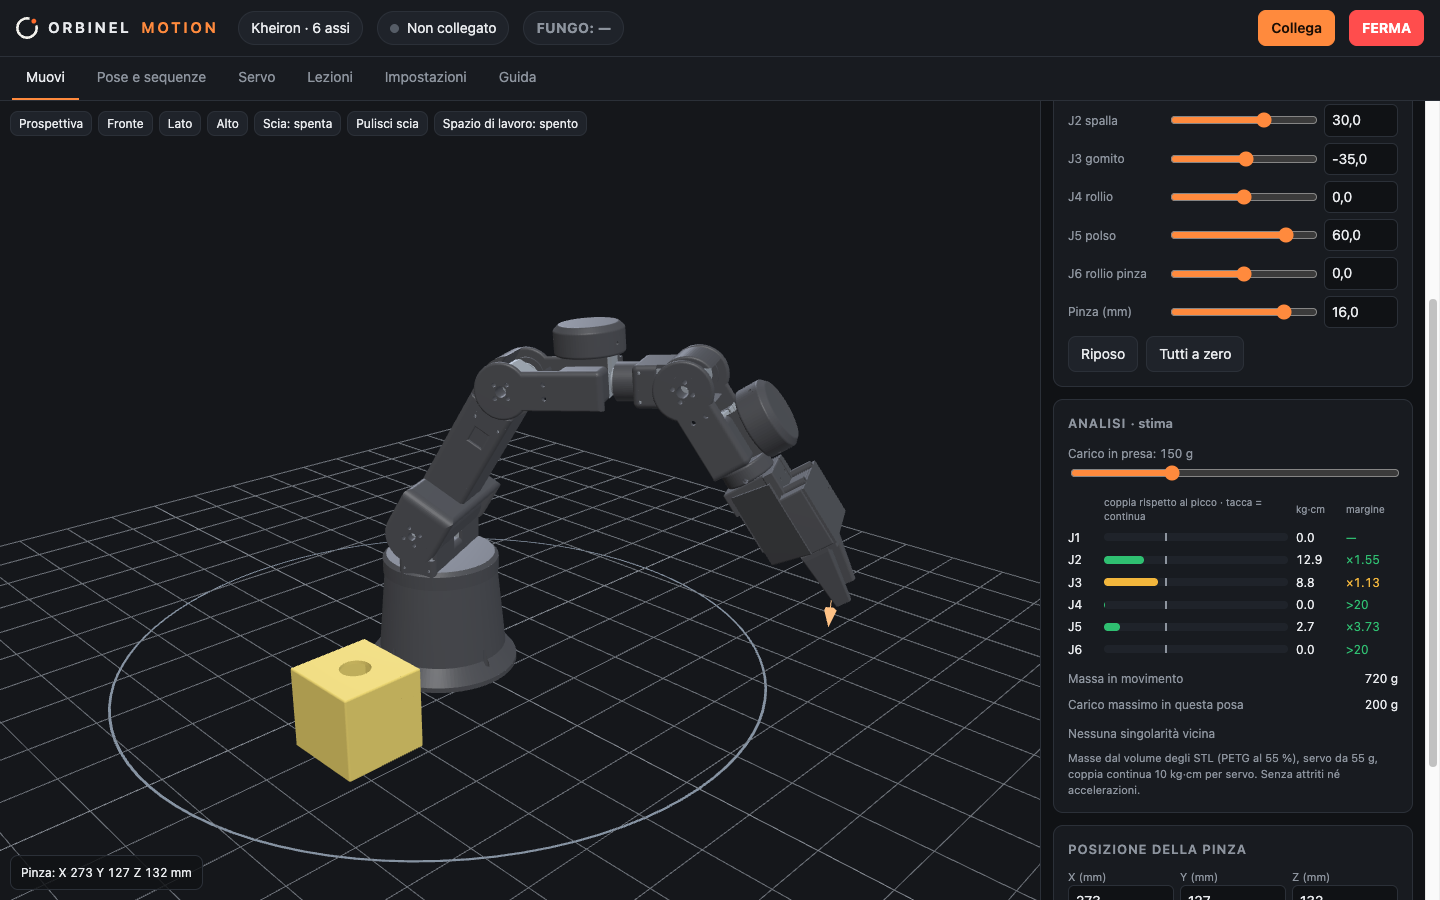
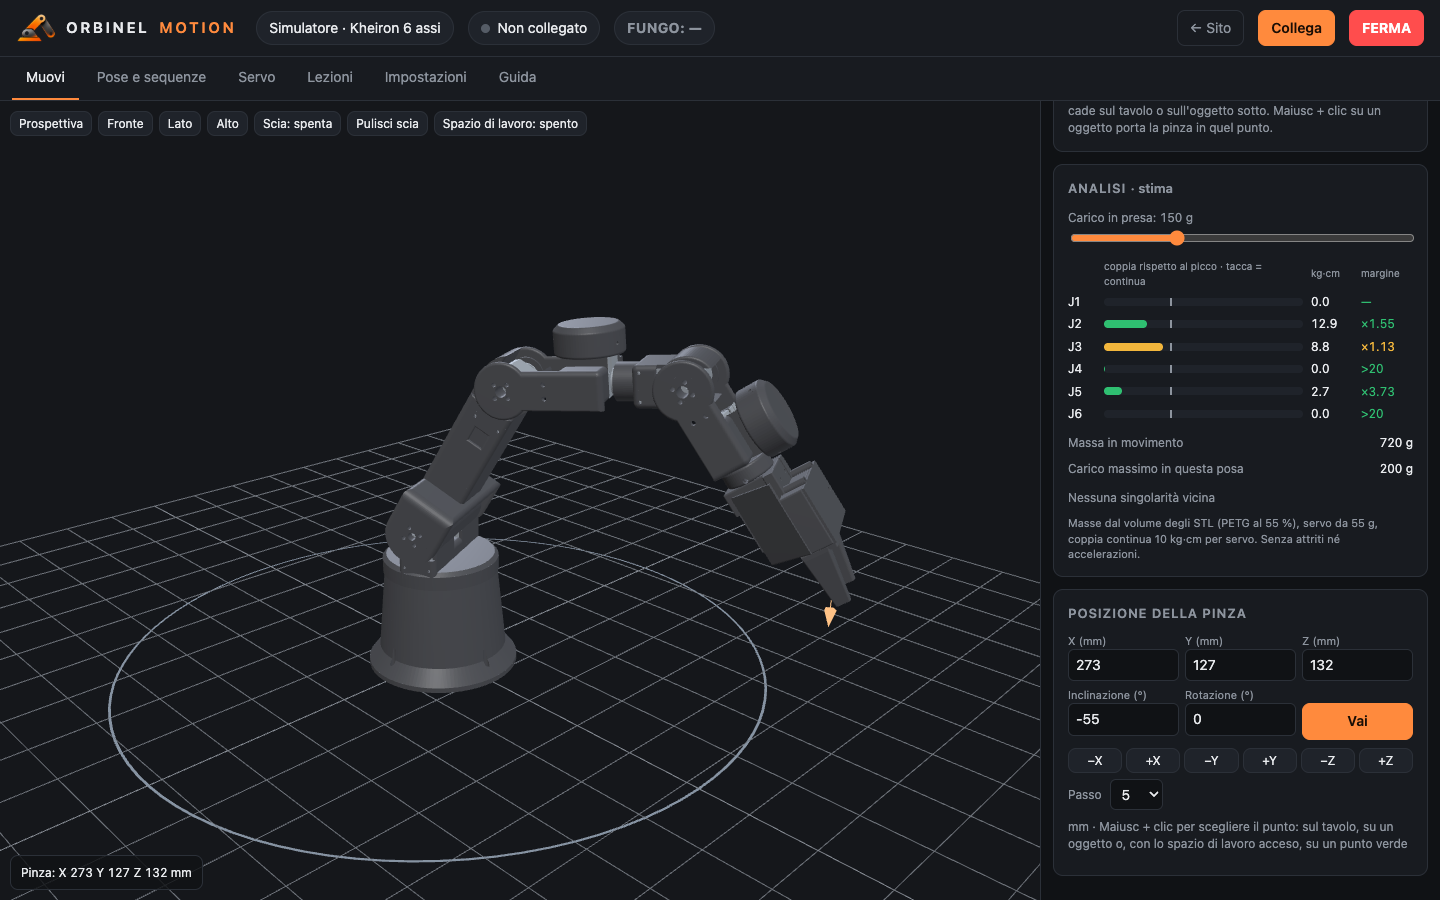
Aggiorna il sito

diff --git a/motion/js/oggetti.js b/motion/js/oggetti.js
@@ -1,0 +1,210 @@
+// Oggetti accanto al robot, da file STL o un cubo di prova, da prendere con la pinza. Quando le dita
+// si chiudono su un oggetto con il punto di presa (TCP) dentro, l'oggetto segue la pinza e il suo peso
+// entra nell'analisi delle coppie; quando si riaprono cade sul tavolo o sull'oggetto che c'è sotto.
+// Le dita si considerano a 2 × «Pinza (mm)» l'una dall'altra: si prende un oggetto largo fino a 40 mm tra le dita. Gli oggetti restano solo in questa pagina.
+'use strict';
+
+const oggetti = {
+  lista: [],
+  preso: null,          // oggetto nella pinza
+  relativa: null,       // posa dell'oggetto rispetto alla pinza al momento della presa
+  caricoPrima: 0,       // carico del cursore prima della presa, rimesso al rilascio
+  aperturaPrima: 0,     // all'avvio la pinza conta come chiusa: per prendere bisogna prima aprirla
+  conta: 0,
+};
+const materialeOggetto = new THREE.MeshStandardMaterial({ color: 0x9fb4c8, roughness: 0.6, metalness: 0.05 });
+const materialePreso = new THREE.MeshStandardMaterial({ color: 0x4cc3ff, roughness: 0.5, metalness: 0.05 });
+
+// STL binario o ASCII
+function leggiStlOggetto(buffer) {
+  const dv = new DataView(buffer);
+  const n = buffer.byteLength >= 84 ? dv.getUint32(80, true) : 0;
+  if (84 + n * 50 === buffer.byteLength) return leggiStl(buffer);
+  const testo = new TextDecoder().decode(buffer);
+  const v = [...testo.matchAll(/vertex\s+(\S+)\s+(\S+)\s+(\S+)/g)].map(m => [+m[1], +m[2], +m[3]]);
+  if (!v.length || v.length % 3) throw new Error('non è un file STL valido');
+  const g = new THREE.BufferGeometry();
+  g.setAttribute('position', new THREE.BufferAttribute(new Float32Array(v.flat()), 3));
+  g.computeVertexNormals();
+  return g;
+}
+
+const ALTO = 2000;     // quota da cui si fa cadere un oggetto spostato: si appoggia su quello che trova
+const posizionaOggetto = o => {
+  o.mesh.matrix.makeRotationZ(o.rz * RAD).setPosition(o.x, o.y, o.z);
+  o.mesh.updateMatrixWorld(true);
+};
+
+function aggiungiOggetto(nome, geo) {
+  if (geo.index) geo = geo.toNonIndexed();        // il volume si calcola su triangoli separati
+  geo.computeBoundingBox();
+  const b = geo.boundingBox;
+  geo.translate(-(b.min.x + b.max.x) / 2, -(b.min.y + b.max.y) / 2, -b.min.z);   // centrato, appoggiato sul piano
+  geo.computeBoundingBox();
+  const dim = new THREE.Vector3(); geo.boundingBox.getSize(dim);
+  // massa stimata: PLA (1,24 g/cm³) al 30 % del pieno; si può correggere nell'elenco
+  const massa = Math.max(1, Math.round(proprieta(geo).volume / 1000 * 1.24 * 0.3));
+  const mesh = new THREE.Mesh(geo, materialeOggetto);
+  mesh.matrixAutoUpdate = false;
+  const k = oggetti.conta++;
+  const o = { id: k, nome, mesh, dim, massa, x: 230, y: -90 + (k % 4) * 60, z: ALTO, rz: 0 };
+  posizionaOggetto(o);
+  scena.scena.add(mesh);
+  scena.cliccabili.push(mesh);
+  oggetti.lista.push(o);
+  appoggia(o);
+  mostraOggetti();
+  if (Math.max(dim.x, dim.y, dim.z) > 400) avviso(`«${nome}» è più grande di 40 cm: il file è in millimetri?`);
+}
+
+function togliOggetto(o) {
+  if (oggetti.preso === o) rilascia(false);
+  scena.scena.remove(o.mesh);
+  scena.cliccabili = scena.cliccabili.filter(m => m !== o.mesh);
+  o.mesh.geometry.dispose();
+  oggetti.lista = oggetti.lista.filter(x => x !== o);
+  mostraOggetti();
+}
+
+// --- presa ---
+function matricePinza(fk) {
+  const R = fk.R, p = fk.tcp;
+  return new THREE.Matrix4().set(R[0][0], R[0][1], R[0][2], p[0], R[1][0], R[1][1], R[1][2], p[1], R[2][0], R[2][1], R[2][2], p[2], 0, 0, 0, 1);
+}
+
+// larghezza dell'oggetto lungo la direzione in cui si chiudono le dita (asse y della pinza):
+// proiezione di tutti i vertici, esatta per gli oggetti convessi in qualsiasi orientamento
+function larghezza(o, asse) {
+  const x = new THREE.Vector3(), y = new THREE.Vector3(), z = new THREE.Vector3();
+  o.mesh.matrix.extractBasis(x, y, z);
+  const a = new THREE.Vector3(...asse), ax = x.dot(a), ay = y.dot(a), az = z.dot(a);
+  const v = o.mesh.geometry.attributes.position.array;
+  let min = Infinity, max = -Infinity;
+  for (let i = 0; i < v.length; i += 3) {
+    const d = v[i] * ax + v[i + 1] * ay + v[i + 2] * az;
+    if (d < min) min = d;
+    if (d > max) max = d;
+  }
+  return max - min;
+}
+
+function contieneTcp(o, tcp) {
+  const p = new THREE.Vector3(...tcp).applyMatrix4(o.mesh.matrix.clone().invert());
+  return o.mesh.geometry.boundingBox.clone().expandByScalar(3).containsPoint(p);
+}
+
+function impostaCaricoOggetti(grammi) {
+  analisi.carico = grammi;
+  document.getElementById('carico').value = grammi;
+  document.getElementById('valCarico').textContent = grammi;
+  setTimeout(() => impostaPosa(stato.q));      // ricalcola coppie e margini con il nuovo carico
+}
+
+function prendi(o, fk) {
+  oggetti.preso = o;
+  oggetti.relativa = matricePinza(fk).invert().multiply(o.mesh.matrix);
+  o.mesh.material = materialePreso;
+  oggetti.caricoPrima = analisi.carico;
+  impostaCaricoOggetti(o.massa);
+  mostraOggetti();
+}
+
+// appoggia l'oggetto sotto di sé: sul tavolo o sull'oggetto più alto che ha sotto
+function appoggia(o) {
+  o.mesh.updateMatrixWorld(true);
+  const box = new THREE.Box3().setFromObject(o.mesh);
+  let sotto = 0;
+  for (const altro of oggetti.lista) {
+    if (altro === o || altro === oggetti.preso) continue;
+    const b = new THREE.Box3().setFromObject(altro.mesh);
+    const sopra = box.min.x < b.max.x && box.max.x > b.min.x && box.min.y < b.max.y && box.max.y > b.min.y;
+    if (sopra && b.max.z <= box.min.z + 1) sotto = Math.max(sotto, b.max.z);
+  }
+  o.mesh.matrix.premultiply(new THREE.Matrix4().makeTranslation(0, 0, sotto - box.min.z));
+  o.mesh.updateMatrixWorld(true);
+  const e = o.mesh.matrix.elements;
+  o.x = e[12]; o.y = e[13]; o.z = e[14];
+}
+
+function rilascia(rimettiCarico = true) {
+  const o = oggetti.preso;
+  if (!o) return;
+  oggetti.preso = null;
+  o.mesh.material = materialeOggetto;
+  // cade di piatto: tiene solo la rotazione attorno alla verticale e il centro in pianta
+  const e = o.mesh.matrix.elements;
+  const centro = new THREE.Box3().setFromObject(o.mesh).getCenter(new THREE.Vector3());
+  o.rz = Math.atan2(e[1], e[0]) / RAD;
+  o.x = centro.x; o.y = centro.y; o.z = ALTO;
+  posizionaOggetto(o);
+  appoggia(o);
+  if (rimettiCarico) impostaCaricoOggetti(oggetti.caricoPrima);
+  mostraOggetti();
+}
+
+document.addEventListener('motion:posa', e => {
+  if (!scena?.nodi) return;
+  const { q, pinza, fk } = e.detail;
+  const apertura = 2 * pinza;
+  const asse = [fk.R[0][1], fk.R[1][1], fk.R[2][1]];
+  const pinzaMontata = typeof utensili === 'undefined' || utensili.pinza;
+  if (oggetti.preso) {
+    const o = oggetti.preso, w = larghezza(o, asse);
+    if (!pinzaMontata || apertura > w + 0.5) rilascia();
+    else {
+      o.mesh.matrix.multiplyMatrices(matricePinza(fk), oggetti.relativa);
+      o.mesh.updateMatrixWorld(true);
+      scena.posa(q, Math.max(pinza, w / 2));     // le dita si fermano sull'oggetto
+    }
+  } else if (pinzaMontata) {
+    // si prende solo chiudendo le dita: entrare con la pinza già chiusa non prende niente
+    const o = oggetti.lista.find(x => contieneTcp(x, fk.tcp));
+    if (o) {
+      const w = larghezza(o, asse);
+      if (apertura <= w && oggetti.aperturaPrima > w) prendi(o, fk);     // le dita lo toccano
+    }
+  }
+  oggetti.aperturaPrima = apertura;
+});
+
+// --- pannello ---
+function mostraOggetti() {
+  const el = document.getElementById('listaOggetti');
+  if (!oggetti.lista.length) { el.innerHTML = '<p class="muted" style="font-size:12px;margin:8px 0 0">Nessun oggetto sul tavolo.</p>'; return; }
+  const campo = (o, k, passo = 1) => `<input type="number" data-o="${o.id}" data-k="${k}" step="${passo}" value="${(+o[k]).toFixed(0)}"${oggetti.preso === o ? ' disabled' : ''}>`;
+  el.innerHTML = `<table class="oggetti"><thead><tr><th>Oggetto</th><th>X</th><th>Y</th><th>Rot °</th><th>g</th><th></th></tr></thead><tbody>`
+    + oggetti.lista.map(o => `<tr>
+      <td title="${o.dim.x.toFixed(0)} × ${o.dim.y.toFixed(0)} × ${o.dim.z.toFixed(0)} mm">${oggetti.preso === o ? '✋ ' : ''}${o.nome.replace(/</g, '&lt;')}</td>
+      <td>${campo(o, 'x')}</td><td>${campo(o, 'y')}</td><td>${campo(o, 'rz', 15)}</td><td>${campo(o, 'massa')}</td>
+      <td><button class="piccolo" data-togli="${o.id}" title="Togli">×</button></td></tr>`).join('')
+    + '</tbody></table>';
+}
+
+(() => {
+  const file = document.getElementById('fileOggetto');
+  document.getElementById('btnAggiungiStl').addEventListener('click', () => file.click());
+  file.addEventListener('change', async () => {
+    for (const f of file.files) {
+      try { aggiungiOggetto(f.name.replace(/\.stl$/i, ''), leggiStlOggetto(await f.arrayBuffer())); }
+      catch (e) { avviso(`Non riesco a leggere «${f.name}»: ${e.message}`); }
+    }
+    file.value = '';
+  });
+  document.getElementById('btnCubo').addEventListener('click', () => {
+    if (scena?.scena) aggiungiOggetto('Cubo 30 mm', new THREE.BoxGeometry(30, 30, 30));
+  });
+  const lista = document.getElementById('listaOggetti');
+  lista.addEventListener('change', e => {
+    const o = oggetti.lista.find(x => x.id === +e.target.dataset.o);
+    if (!o || oggetti.preso === o) return;
+    const k = e.target.dataset.k;
+    o[k] = k === 'massa' ? Math.max(0, +e.target.value) : +e.target.value;
+    if (k !== 'massa') { o.z = ALTO; posizionaOggetto(o); appoggia(o); }
+    mostraOggetti();
+  });
+  lista.addEventListener('click', e => {
+    const o = oggetti.lista.find(x => x.id === +e.target.dataset.togli);
+    if (o) togliOggetto(o);
+  });
+  mostraOggetti();
+})();

diff --git a/motion/js/scena.js b/motion/js/scena.js
@@ -55,15 +55,43 @@ class Scena {
     const ciclo = () => { this.controlli.update(); r.render(s, cam); requestAnimationFrame(ciclo); };
     ciclo();
 
-    // clic con Maiusc sul piano: sceglie il punto per la pinza
-    r.domElement.addEventListener('pointerdown', e => {
-      if (!e.shiftKey || !this.suPiano) return;
+    // Maiusc + clic: sceglie il punto per la pinza (suPunto); Maiusc + movimento: anteprima.
+    // Con Maiusc premuto la telecamera non si sposta, così il clic non trascina la vista.
+    this.cliccabili = [];
+    const scelta = e => {
       const rect = r.domElement.getBoundingClientRect();
       const ray = new THREE.Raycaster();
+      ray.params.Points.threshold = 6;
       ray.setFromCamera({ x: ((e.clientX - rect.left) / rect.width) * 2 - 1, y: -((e.clientY - rect.top) / rect.height) * 2 + 1 }, cam);
-      const p = new THREE.Vector3();
-      if (ray.ray.intersectPlane(new THREE.Plane(new THREE.Vector3(0, 0, 1), 0), p)) this.suPiano([p.x, p.y]);
+      const v = x => [x.x, x.y, x.z];
+      const s = { origine: v(ray.ray.origin), direzione: v(ray.ray.direction), punto: null, tipo: null };
+      const oggetto = ray.intersectObjects(this.cliccabili.filter(m => m.visible), false)[0];
+      const nuvola = this.nuvola ? ray.intersectObject(this.nuvola).filter(h => this.nuvolaOk[h.index])[0] : null;
+      const piano = new THREE.Vector3();
+      const suPiano = ray.ray.intersectPlane(new THREE.Plane(new THREE.Vector3(0, 0, 1), 0), piano);
+      const primo = [oggetto && { d: oggetto.distance, punto: v(oggetto.point), tipo: 'oggetto' },
+        nuvola && { d: nuvola.distance, punto: v(this.nuvolaPunti[nuvola.index]), tipo: 'nuvola' },
+        suPiano && { d: ray.ray.origin.distanceTo(piano), punto: v(piano), tipo: 'piano' }]
+        .filter(Boolean).sort((a, b) => a.d - b.d)[0];
+      if (primo) Object.assign(s, { punto: primo.punto, tipo: primo.tipo });
+      return s;
+    };
+    let attesa = false;
+    r.domElement.addEventListener('pointerdown', e => {
+      if (e.shiftKey && this.suPunto) this.suPunto(scelta(e), false);
     });
+    r.domElement.addEventListener('pointermove', e => {
+      if (!e.shiftKey || !this.suPunto || attesa) return;
+      attesa = true;
+      requestAnimationFrame(() => { attesa = false; this.suPunto(scelta(e), true); });
+    });
+    const maiusc = e => {
+      if (e.key !== 'Shift') return;
+      this.controlli.enabled = e.type === 'keyup';
+      if (e.type === 'keyup') this.suPunto?.(null, true);
+    };
+    addEventListener('keydown', maiusc);
+    addEventListener('keyup', maiusc);
   }
 
   ridimensiona() {
@@ -150,9 +178,11 @@ class Scena {
     }
   }
 
-  mostraBersaglio(p) {
+  // ok = false: punto non raggiungibile (pallino rosso)
+  mostraBersaglio(p, ok = true) {
     this.bersaglio.visible = !!p;
     if (p) this.bersaglio.position.set(...p);
+    this.bersaglio.material.color.set(ok ? 0xff8a3d : 0xff4d4d);
   }
 
   aggiungiScia(p) {
@@ -174,6 +204,8 @@ class Scena {
     const g = new THREE.BufferGeometry();
     g.setAttribute('position', new THREE.BufferAttribute(pos, 3));
     g.setAttribute('color', new THREE.BufferAttribute(col, 3));
+    this.nuvolaPunti = punti.map(p => p.p);
+    this.nuvolaOk = punti.map(p => p.ok);
     this.nuvola = new THREE.Points(g, new THREE.PointsMaterial({ size: 7, vertexColors: true, transparent: true, opacity: 0.55, depthWrite: false }));
     this.scena.add(this.nuvola);
   }

diff --git a/motion/js/app.js b/motion/js/app.js
@@ -167,6 +167,59 @@ function vaiIk() {
   return true;
 }
 
+// Porta la pinza nel punto p con l'orientamento che serve: l'inclinazione dei campi e poi tutte le altre
+// da −90° a +90° (ogni 5°). Tra le pose valide (limiti, tavolo, base) vince la più vicina a quella attuale,
+// con una piccola preferenza per l'inclinazione già scelta. Ritorna { q, inc } o null.
+const PORTATA = ROBOT.a2 + ROBOT.d4;
+function posaVerso(p) {
+  const tcp = V.norm(V.sub(ROBOT.tcp, ROBOT.polso));
+  if (V.norm(V.sub(p, [0, 0, ROBOT.d1])) > PORTATA + tcp + 1) return null;
+  const inc0 = +$('ikInc').value, rot = +$('ikRot').value;
+  let migliore = null, costo = Infinity;
+  for (const inc of [inc0, ...Array.from({ length: 37 }, (_, k) => -90 + 5 * k)]) {
+    const r = inversa(p, orientamento(p, inc, rot, stato.q[0]), stato.q, imp.giunti);
+    if (r.errore || controlla(r.q, imp.giunti).length) continue;
+    const k = r.q.reduce((t, v, i) => t + Math.abs(v - stato.q[i]), 0) + Math.abs(inc - inc0) * 0.5;
+    if (k < costo) { costo = k; migliore = { q: r.q, inc }; }
+  }
+  return migliore;
+}
+
+// Dal clic al punto: oggetto, punto della nuvola o tavolo (20 mm sopra il piano, sotto la pinza lo
+// tocca); clic nel vuoto: il primo punto raggiungibile lungo la linea del clic. Mai oltre lo spazio di lavoro.
+const QUOTA_TAVOLO = 20;
+function puntoDalClic(s) {
+  if (s.punto) {
+    const p = s.tipo === 'piano' ? [s.punto[0], s.punto[1], QUOTA_TAVOLO] : s.punto;
+    return { p, posa: posaVerso(p) };
+  }
+  for (let t = 0; t < 4000; t += 5) {
+    const p = V.add(s.origine, V.scale(s.direzione, t));
+    if (p[2] < QUOTA_TAVOLO) break;
+    const posa = posaVerso(p);
+    if (posa) return { p, posa };
+  }
+  return { p: null, posa: null };
+}
+
+function suPunto(s, anteprima) {
+  if (!s) { scena.mostraBersaglio(null); return; }
+  const { p, posa } = puntoDalClic(s);
+  scena.mostraBersaglio(p, !!posa);
+  if (anteprima) return;
+  if (!posa) {
+    document.dispatchEvent(new CustomEvent('motion:ik', { detail: { bersaglio: p, errore: 'fuori dallo spazio di lavoro' } }));
+    $('esitoIk').textContent = '✗ Fuori dallo spazio di lavoro: la pinza non ci arriva senza urtare o superare i limiti';
+    return;
+  }
+  $('ikX').value = p[0].toFixed(0); $('ikY').value = p[1].toFixed(0); $('ikZ').value = p[2].toFixed(0);
+  $('ikInc').value = posa.inc.toFixed(0);
+  document.dispatchEvent(new CustomEvent('motion:ik', { detail: { bersaglio: p, errore: null } }));
+  $('esitoIk').textContent = `✓ Raggiungibile · inclinazione ${posa.inc.toFixed(0)}°`;
+  stato.q = posa.q;
+  aggiorna(true);
+}
+
 function costruisciJog() {
   const tasti = [['X', 0, -1], ['X', 0, 1], ['Y', 1, -1], ['Y', 1, 1], ['Z', 2, -1], ['Z', 2, 1]];
   $('jog').innerHTML = tasti.map(([n, , s], k) => `<button class="piccolo" data-k="${k}">${s > 0 ? '+' : '−'}${n}</button>`).join('');
@@ -643,7 +696,7 @@ async function avvia() {
   aggiornaCollegamento();
   aggiorna();
   scena = window.scena = new Scena($('vista3d'));
-  scena.suPiano = ([x, y]) => { $('ikX').value = x.toFixed(0); $('ikY').value = y.toFixed(0); vaiIk(); };
+  scena.suPunto = suPunto;
   try {
     await scena.carica(k => { $('caricamento').textContent = `Carico il modello… ${Math.round(k * 100)}%`; });
     $('caricamento').remove();

diff --git a/motion/index.html b/motion/index.html
@@ -76,6 +76,11 @@
   #avvisi { border-color: var(--stop); color: #ffb3b3; }
   #caricamento { position: absolute; inset: 0; display: grid; place-items: center; color: var(--muted); }
   .comandi { border-left: 1px solid var(--line); overflow-y: auto; padding: 12px; background: var(--bg); }
+  table.oggetti { width: 100%; margin-top: 8px; font-size: 12px; table-layout: fixed; }
+  table.oggetti th, table.oggetti td { padding: 3px 2px; }
+  table.oggetti th:last-child { width: 26px; }
+  table.oggetti input { width: 100%; padding: 3px 4px; }
+  table.oggetti td:first-child { overflow: hidden; text-overflow: ellipsis; white-space: nowrap; }
   .giunto { display: grid; grid-template-columns: 92px 1fr 74px; gap: 8px; align-items: center; margin: 6px 0; }
   .giunto label { font-size: 12px; color: var(--muted); }
   .giunto .reale { grid-column: 2 / 4; font-size: 11px; color: var(--info); margin-top: -6px; min-height: 0; }
@@ -224,6 +229,17 @@
       </div>
 
       <div class="card">
+        <h2>Oggetti</h2>
+        <div class="riga">
+          <button id="btnAggiungiStl">Aggiungi STL…</button>
+          <button id="btnCubo">Cubo di prova 30 mm</button>
+        </div>
+        <input type="file" id="fileOggetto" accept=".stl" multiple hidden>
+        <div id="listaOggetti"></div>
+        <p class="muted" style="font-size:12px;margin:8px 0 0">Porta la pinza aperta intorno a un oggetto e chiudila: lo prende e il suo peso entra nell'analisi. Riaprendola, l'oggetto cade sul tavolo o sull'oggetto sotto. Maiusc + clic su un oggetto porta la pinza in quel punto.</p>
+      </div>
+
+      <div class="card">
         <h2>Analisi <span class="muted" style="text-transform:none;letter-spacing:0">· stima</span></h2>
         <div style="margin-bottom:8px">
           <label class="muted" style="font-size:12px">Carico in presa: <span id="valCarico" class="num">0</span> g</label>
@@ -253,7 +269,7 @@
         <div class="riga" style="margin-top:6px">
           <label class="muted" style="font-size:12px">Passo</label>
           <select id="passoJog" style="width:auto"><option>1</option><option selected>5</option><option>10</option><option>25</option></select>
-          <span class="muted" style="font-size:12px">mm · Maiusc + clic sul piano per scegliere il punto</span>
+          <span class="muted" style="font-size:12px">mm · Maiusc + clic per scegliere il punto: sul tavolo, su un oggetto o, con lo spazio di lavoro acceso, su un punto verde</span>
         </div>
         <p class="muted" id="esitoIk" style="font-size:12px;margin:8px 0 0"></p>
       </div>
@@ -461,6 +477,7 @@
 <script src="js/app.js"></script>
 <script src="js/analisi.js"></script>
 <script src="js/utensili.js"></script>
+<script src="js/oggetti.js"></script>
 <script src="js/lezioni-dati.js"></script>
 <script src="js/lezioni.js"></script>
 </body>
